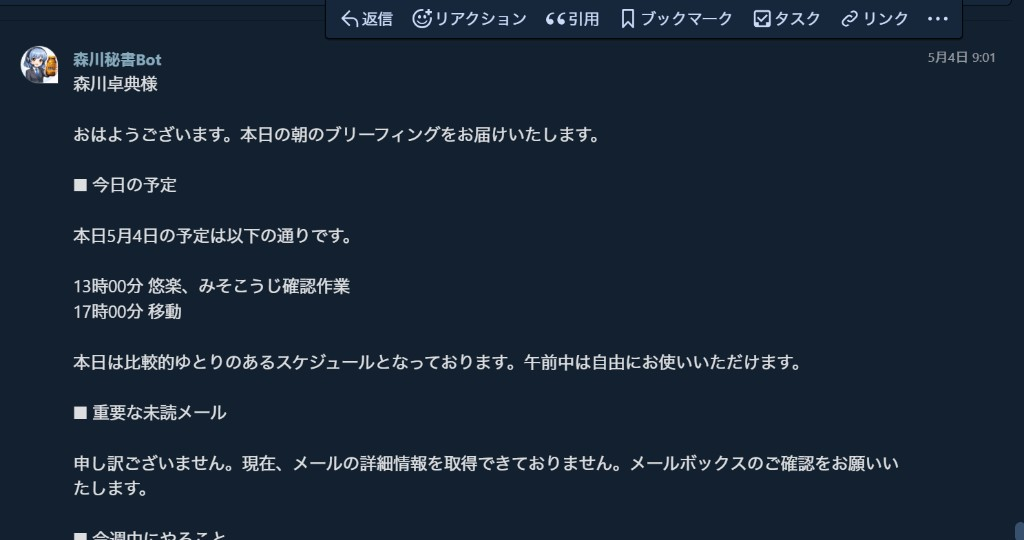
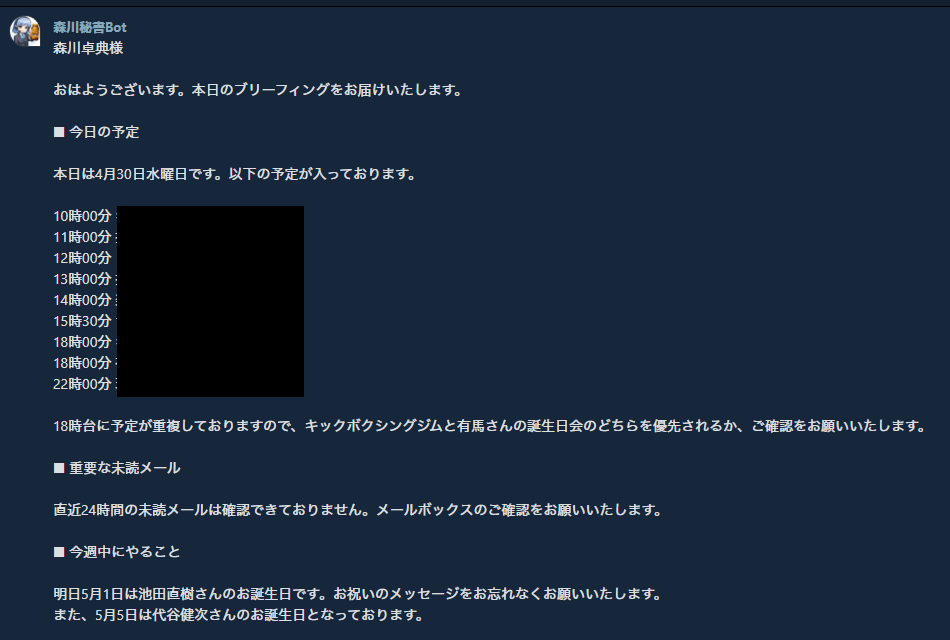
Update screenshot and add zoom lightbox feature

diff --git a/index.html b/index.html
@@ -11,6 +11,51 @@
     .gradient-bg { background: linear-gradient(135deg, #0f172a 0%, #1e293b 50%, #0f172a 100%); }
     .card-glow { box-shadow: 0 0 30px rgba(99, 102, 241, 0.15); }
     .tag-pill { display: inline-flex; align-items: center; gap: 4px; }
+
+    /* Lightbox */
+    .zoom-img { cursor: zoom-in; transition: opacity 0.2s; }
+    .zoom-img:hover { opacity: 0.85; }
+    #lightbox {
+      display: none;
+      position: fixed;
+      inset: 0;
+      background: rgba(0,0,0,0.9);
+      z-index: 9999;
+      align-items: center;
+      justify-content: center;
+      padding: 24px;
+    }
+    #lightbox.open { display: flex; }
+    #lightbox img {
+      max-width: 100%;
+      max-height: 90vh;
+      border-radius: 12px;
+      box-shadow: 0 0 60px rgba(0,0,0,0.8);
+      cursor: zoom-out;
+    }
+    #lightbox-close {
+      position: absolute;
+      top: 20px;
+      right: 24px;
+      color: white;
+      font-size: 32px;
+      cursor: pointer;
+      line-height: 1;
+      opacity: 0.7;
+      transition: opacity 0.2s;
+    }
+    #lightbox-close:hover { opacity: 1; }
+    .zoom-hint {
+      position: absolute;
+      bottom: 10px;
+      right: 12px;
+      background: rgba(0,0,0,0.6);
+      color: white;
+      font-size: 11px;
+      padding: 4px 8px;
+      border-radius: 6px;
+      pointer-events: none;
+    }
   </style>
 </head>
 <body class="bg-slate-950 text-slate-100 min-h-screen">
@@ -51,10 +96,20 @@
           <div class="w-3 h-3 rounded-full bg-yellow-500/60"></div>
           <div class="w-3 h-3 rounded-full bg-green-500/60"></div>
           <span class="text-slate-400 text-xs ml-3">チャットワーク — AI管理グループ</span>
+          <span class="ml-auto text-slate-500 text-xs">🔍 クリックで拡大</span>
         </div>
-        <img src="chatwork-screenshot.png" alt="チャットワークに届く朝のブリーフィング" class="w-full">
+        <div class="relative">
+          <img src="chatwork-screenshot.png" alt="チャットワークに届く朝のブリーフィング" class="w-full zoom-img" onclick="openLightbox(this.src)">
+          <div class="zoom-hint">🔍 クリックで拡大</div>
+        </div>
       </div>
-      <p class="text-slate-500 text-xs mt-3 text-center">※ 個人情報・機密情報には処理済み</p>
+      <p class="text-slate-500 text-xs mt-3 text-center">※ 個人情報・機密情報にはモザイク処理済み</p>
+
+      <!-- Lightbox -->
+      <div id="lightbox" onclick="closeLightbox()">
+        <span id="lightbox-close" onclick="closeLightbox()">✕</span>
+        <img id="lightbox-img" src="" alt="拡大画像">
+      </div>
     </section>
 
     <!-- 4パーツ -->
@@ -281,5 +336,19 @@
     <p class="mt-1">森川卓典 / 2026年5月</p>
   </footer>
 
+  <script>
+    function openLightbox(src) {
+      document.getElementById('lightbox-img').src = src;
+      document.getElementById('lightbox').classList.add('open');
+      document.body.style.overflow = 'hidden';
+    }
+    function closeLightbox() {
+      document.getElementById('lightbox').classList.remove('open');
+      document.body.style.overflow = '';
+    }
+    document.addEventListener('keydown', function(e) {
+      if (e.key === 'Escape') closeLightbox();
+    });
+  </script>
 </body>
 </html>
